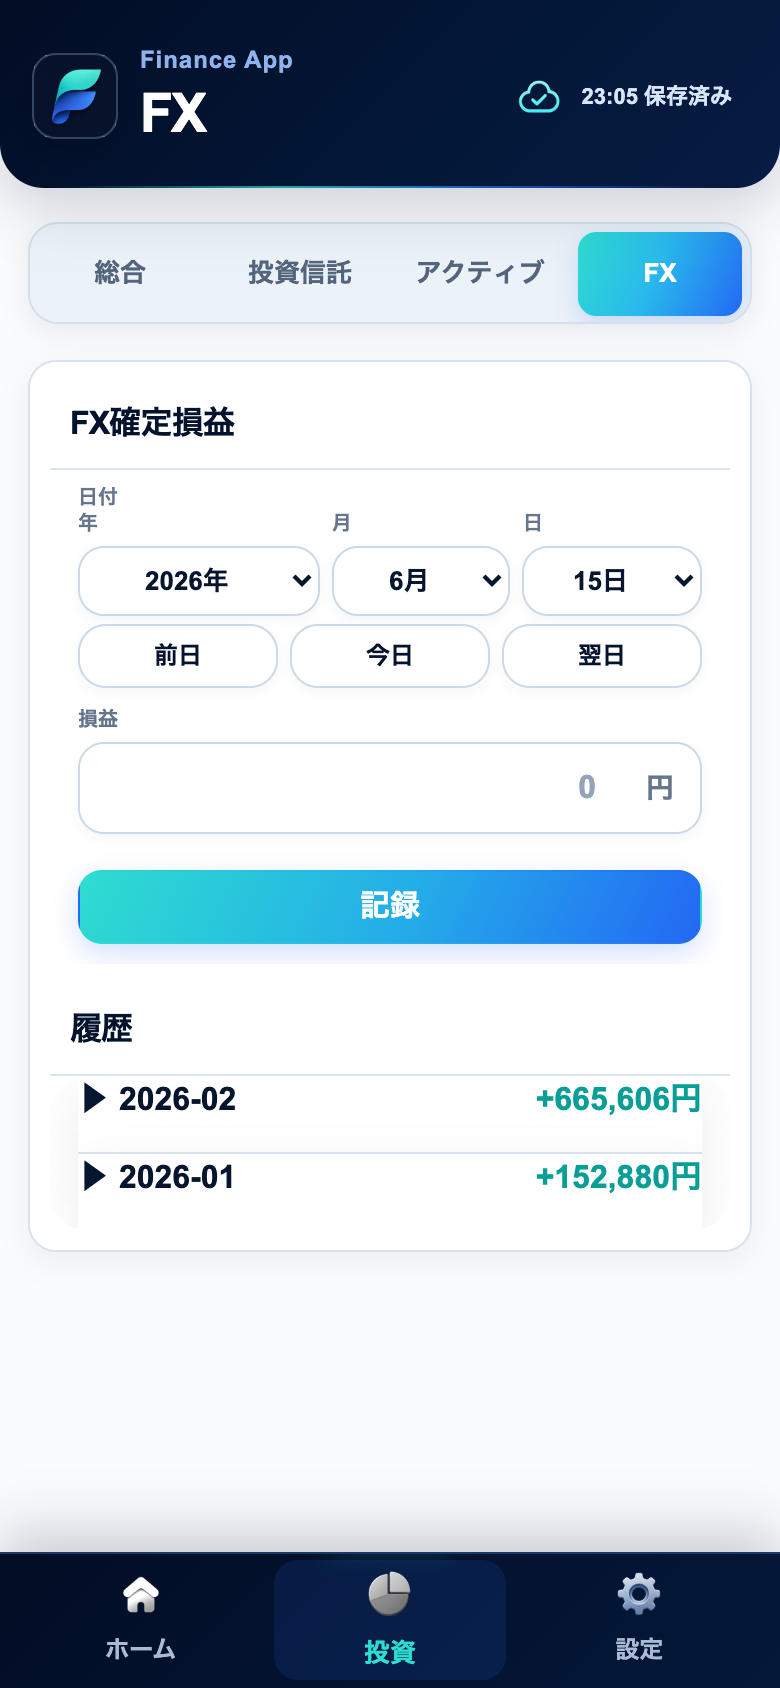
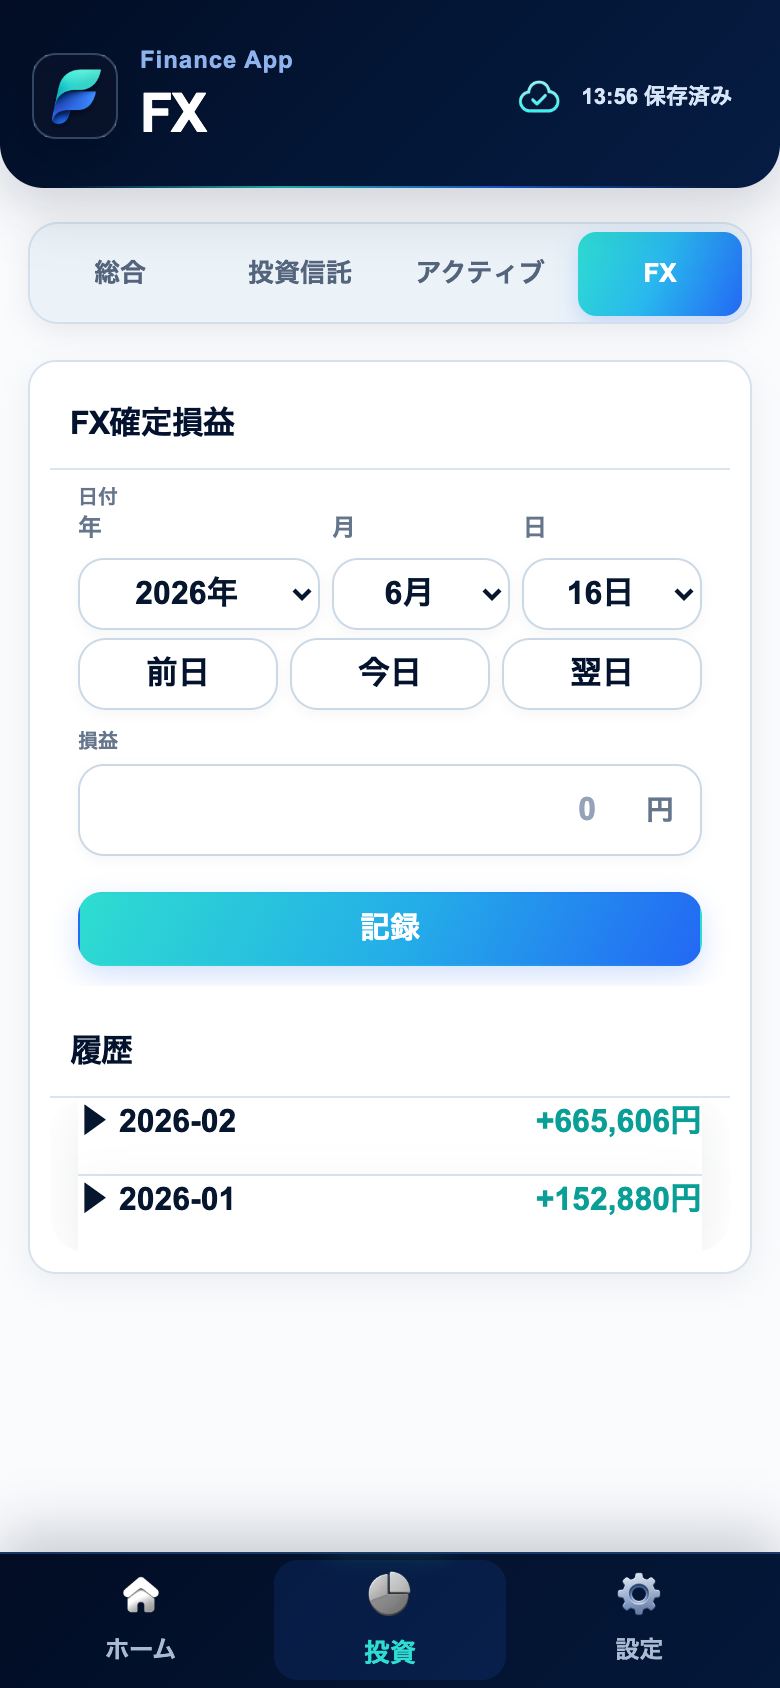
Unify mobile date selector sizing

diff --git a/app/deep-canvas-polish.css b/app/deep-canvas-polish.css
@@ -405,6 +405,15 @@
     line-height: 1.1 !important;
   }
 
+  .page .fx-record-form .fx-date-picker-row-fixed .field {
+    gap: var(--space-xs) !important;
+  }
+
+  .page .fx-record-form .fx-date-picker-row-fixed .label {
+    font-size: 12px !important;
+    line-height: 1.4 !important;
+  }
+
   .fx-record-form .money-input,
   .fx-record-form .money-input-wrap {
     min-height: 36px !important;
@@ -990,5 +999,22 @@
   .bottom-tabs .tab:nth-child(2).active {
     padding-top: 34px !important;
     font-size: 0 !important;
+  }
+
+  .page .month-picker-row .input,
+  .page .month-picker-row select.input,
+  .page .month-select-grid .input,
+  .page .month-select-grid select.input,
+  .page .month-picker-row .month-arrow,
+  .page:has(.data-backup-section) .month-picker-row .input,
+  .page:has(.data-backup-section) .month-picker-row select.input,
+  .page:has(.data-backup-section) .month-picker-row .month-arrow,
+  .page .fx-record-form .fx-date-picker-row-fixed .input,
+  .page .fx-record-form .fx-date-picker-row-fixed select.input,
+  .page .fx-record-form .fx-date-picker-row-fixed .fx-date-nav-btn {
+    height: 36px !important;
+    min-height: 36px !important;
+    font-size: 16px !important;
+    line-height: 1.35 !important;
   }
 }

diff --git a/public/sw.js b/public/sw.js
@@ -1,4 +1,4 @@
-const CACHE_NAME = "finance-pwa-v17";
+const CACHE_NAME = "finance-pwa-v18";
 const BASE_PATH = new URL(self.registration.scope).pathname.replace(/\/$/, "");
 const APP_SHELL = [
   `${BASE_PATH}/`,

diff --git a/components/PwaRegister.tsx b/components/PwaRegister.tsx
@@ -2,7 +2,7 @@
 
 import { useEffect } from "react";
 
-const SERVICE_WORKER_VERSION = "17";
+const SERVICE_WORKER_VERSION = "18";
 
 export default function PwaRegister() {
   useEffect(() => {

diff --git a/design-qa.md b/design-qa.md
@@ -20,13 +20,13 @@ also remain within 6 CSS pixels, with no clipping, overflow, or broken images.
 
 | Screen | Score |
 | --- | ---: |
-| Home | 99.93% |
+| Home | 99.94% |
 | Cumulative profit | 99.99% |
 | Investment summary | 100.00% |
 | Investment fund | 99.99% |
-| Investment active | 99.93% |
-| Investment FX | 99.99% |
-| Settings | 99.90% |
+| Investment active | 99.94% |
+| Investment FX | 100.00% |
+| Settings | 98.97% |
 
 **Automated Checks**
 
